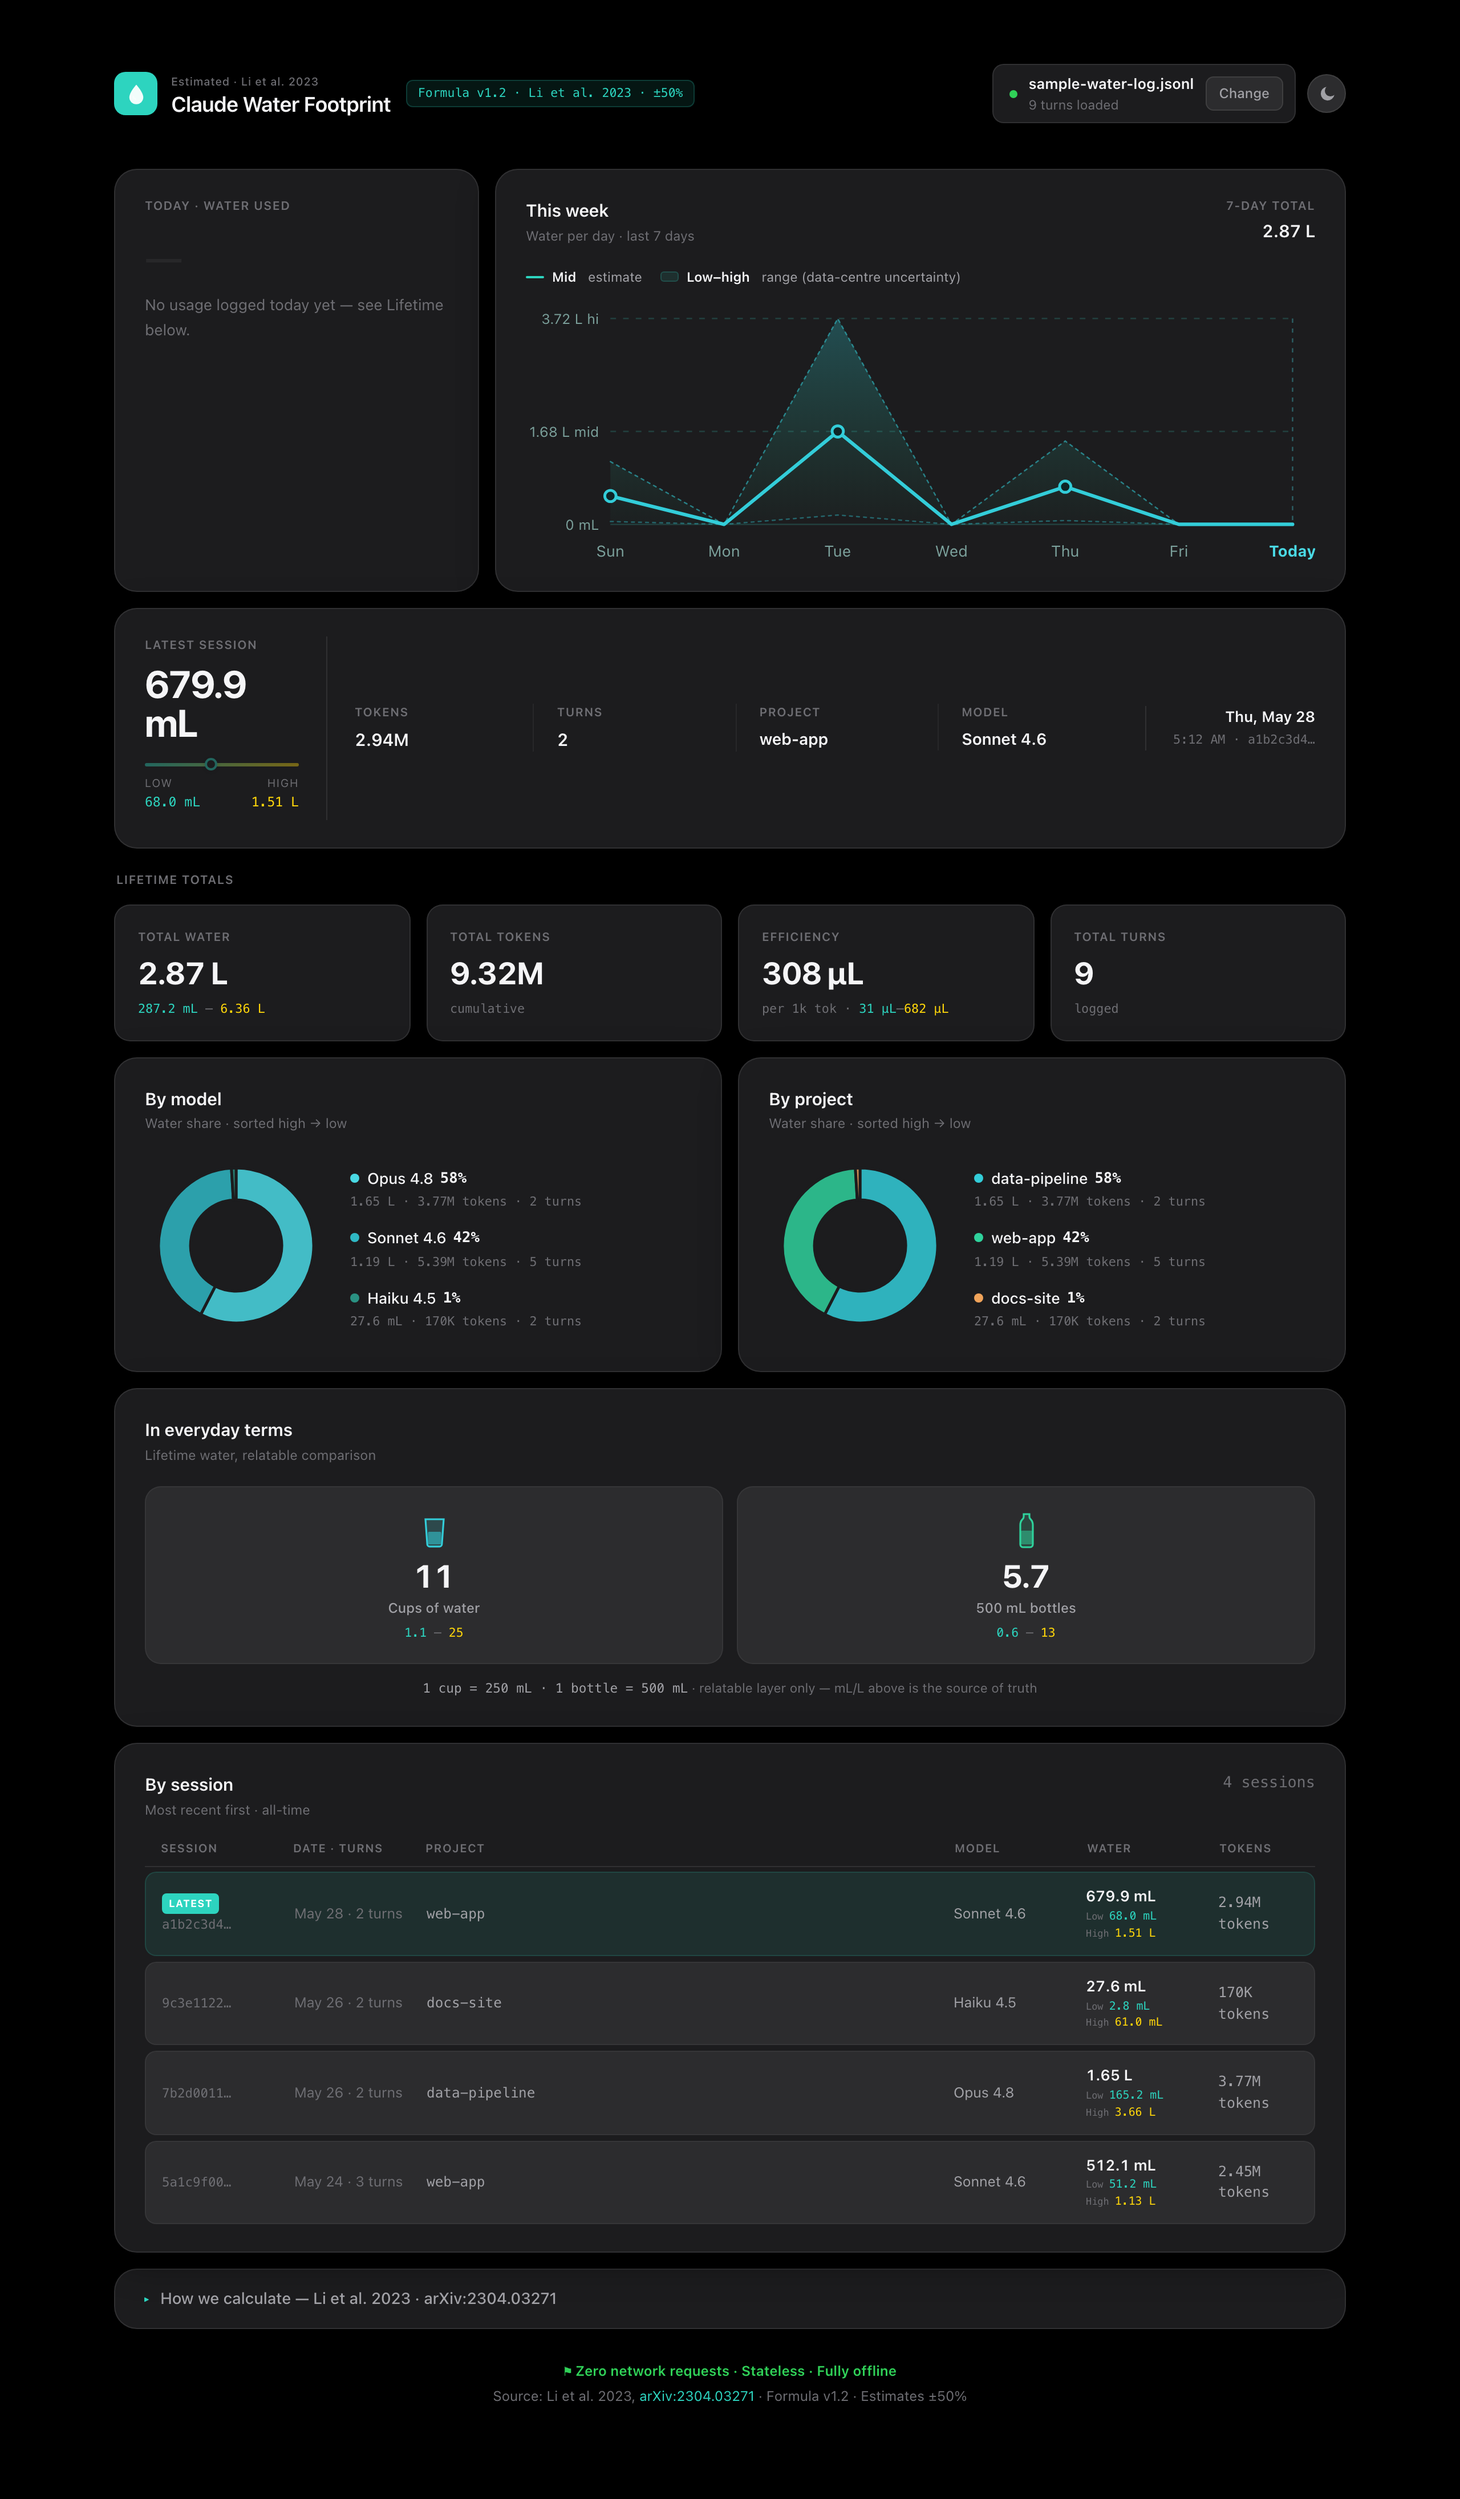
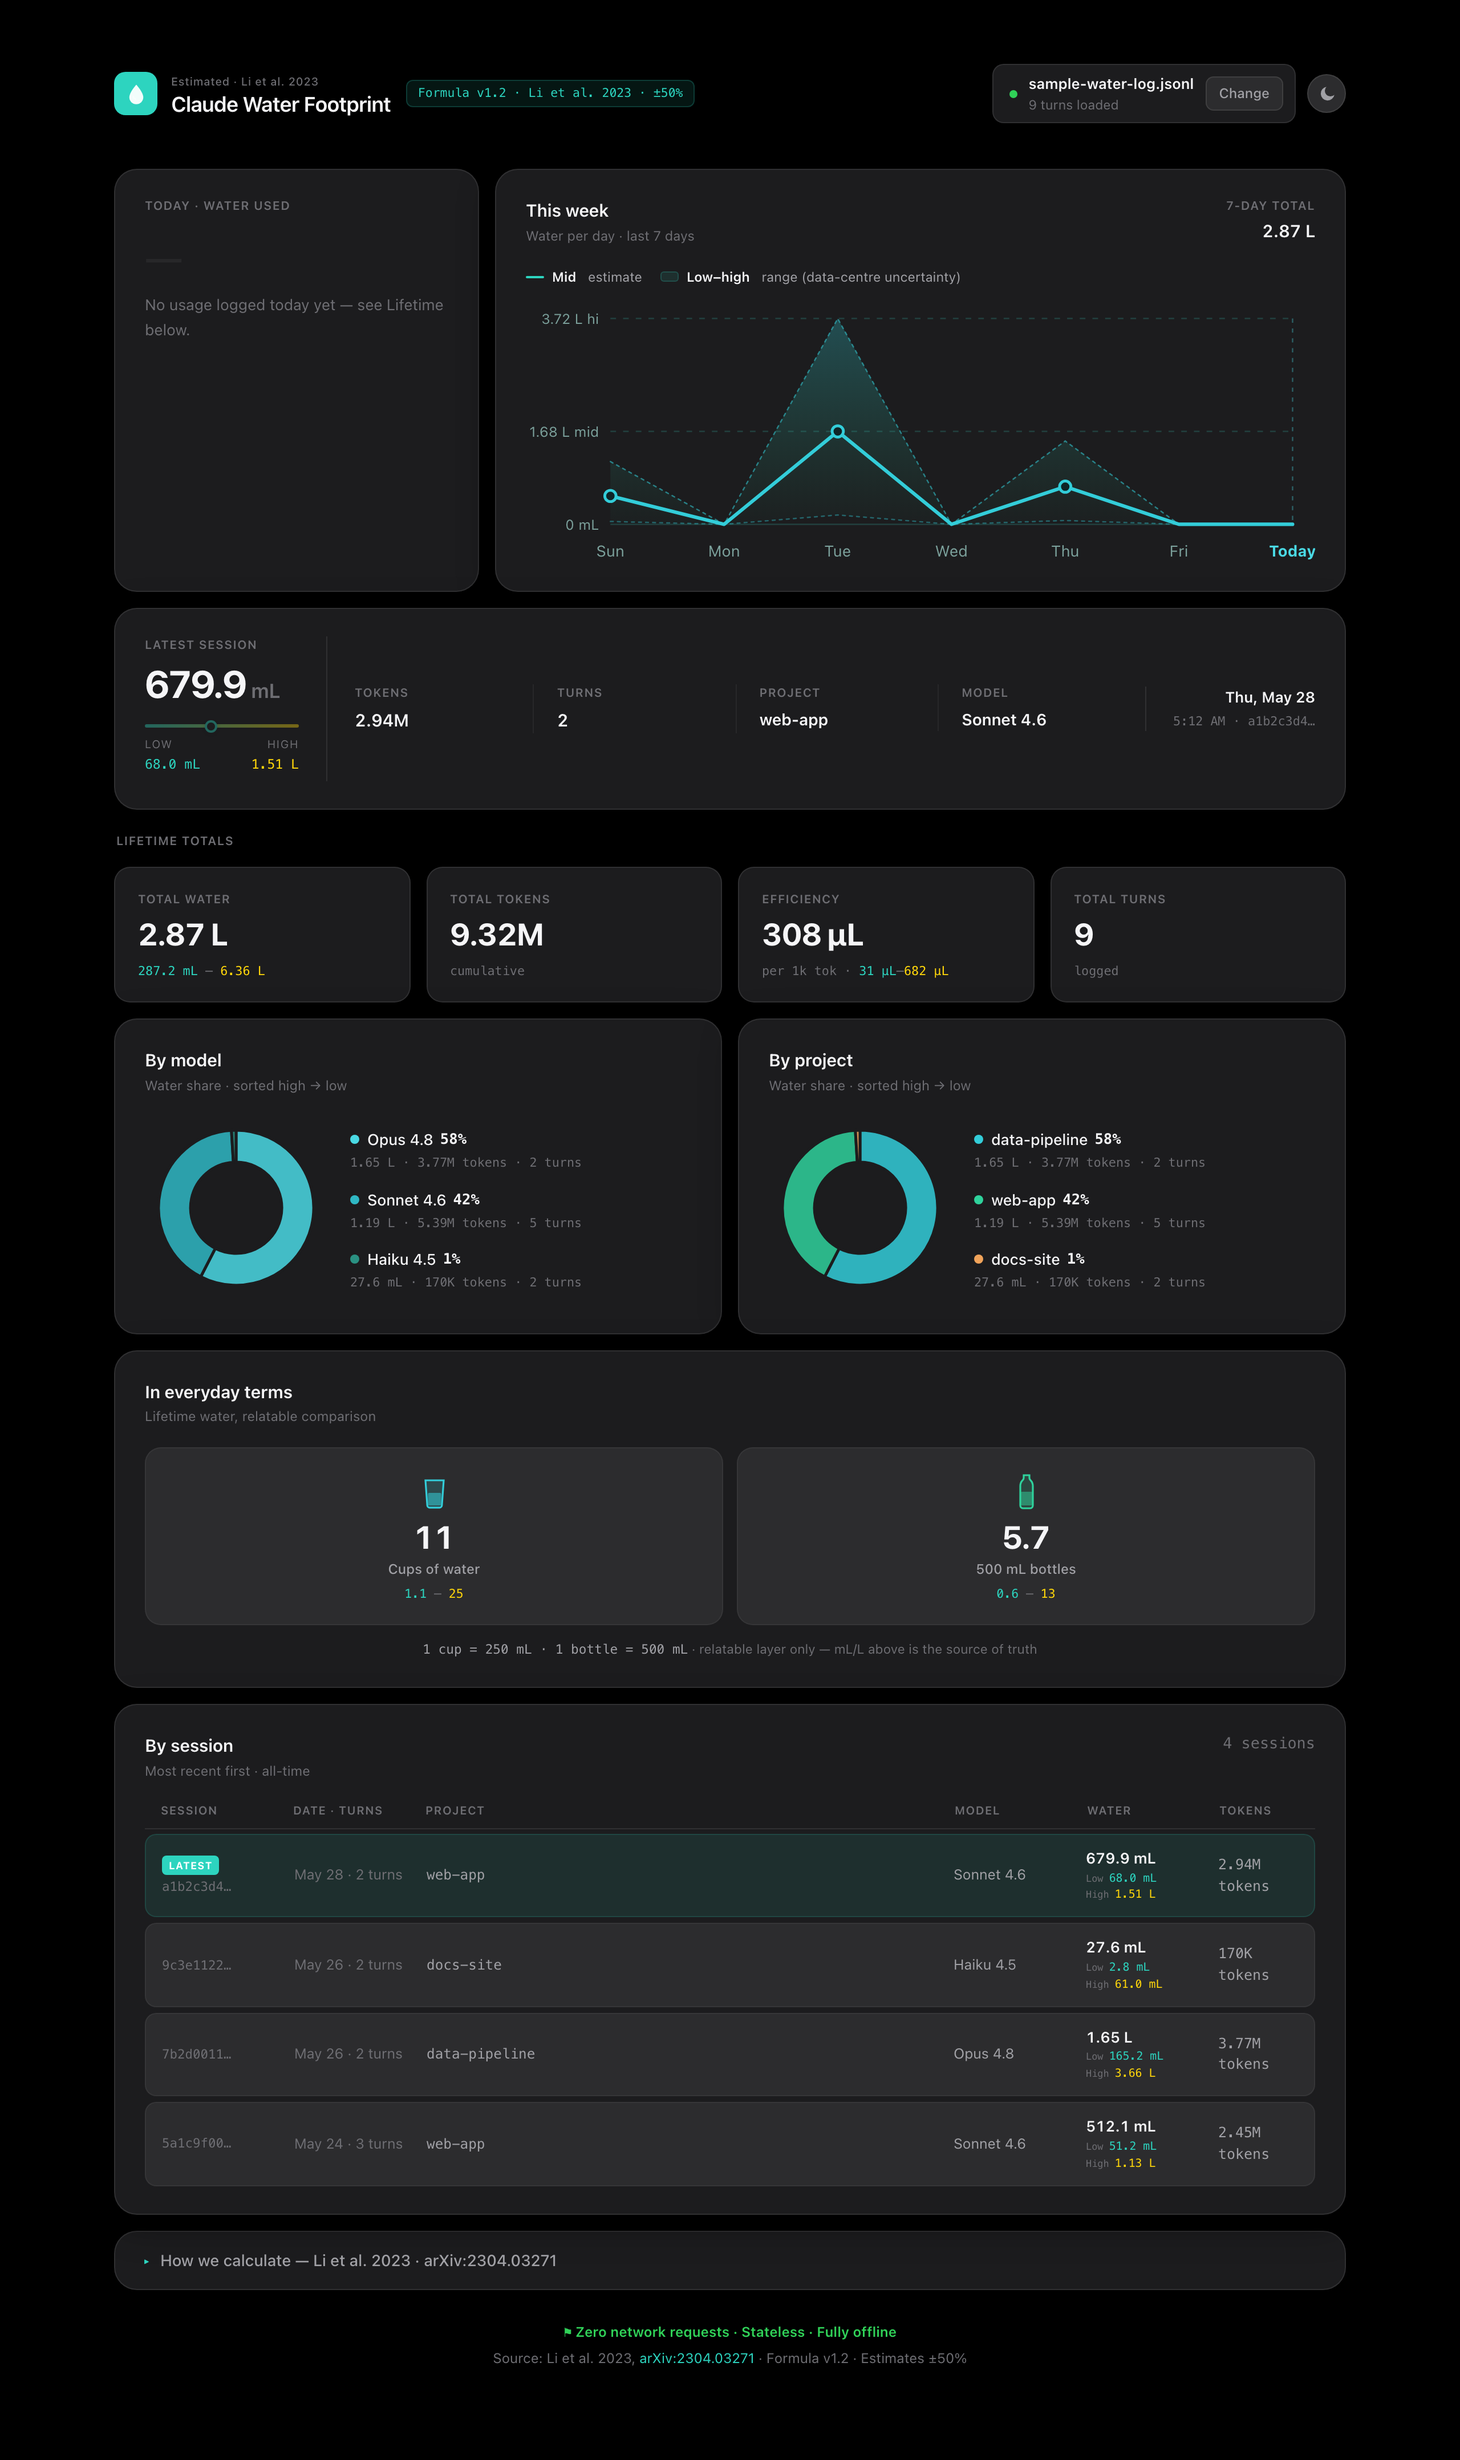
fix(dashboard): keep latest-session value and unit on one line
Render mL/L as a smaller inline unit and prevent wrapping in the
160px session column; regenerate sample screenshots.

diff --git a/index.html b/index.html
@@ -291,7 +291,8 @@
       border-right: 1px solid var(--line);
     }
     .sess-latest-left .slabel { font-size: 0.65rem; font-weight: 600; letter-spacing: 0.06em; text-transform: uppercase; color: var(--muted); margin-bottom: 10px; }
-    .sess-latest-left .swater { font-family: var(--sans); font-size: 2.1rem; font-weight: 700; color: var(--ink); letter-spacing: -1px; line-height: 1; margin-bottom: 2px; }
+    .sess-latest-left .swater { font-family: var(--sans); font-size: 2.1rem; font-weight: 700; color: var(--ink); letter-spacing: -1px; line-height: 1; margin-bottom: 2px; white-space: nowrap; }
+    .sess-latest-left .swater .sunit { font-size: 1.1rem; font-weight: 600; color: var(--muted); letter-spacing: 0; margin-left: 4px; }
     .sess-latest-meta {
       grid-area: meta;
       display: flex;
@@ -729,7 +730,7 @@ function latestSessionCard(entries) {
   return `<div class="card sess-latest-card">
     <div class="sess-latest-left">
       <div class="slabel">Latest session</div>
-      <div class="swater">${fmtMl(t.mid)}</div>
+      <div class="swater">${fmtMl(t.mid).replace(/ (µL|mL|L)$/, '<span class="sunit">$1</span>')}</div>
       <div class="range-bar" style="max-width:240px">
         <div class="range-track"><span class="range-mid" style="left:${midPct.toFixed(1)}%"></span></div>
         <div class="range-ends">
